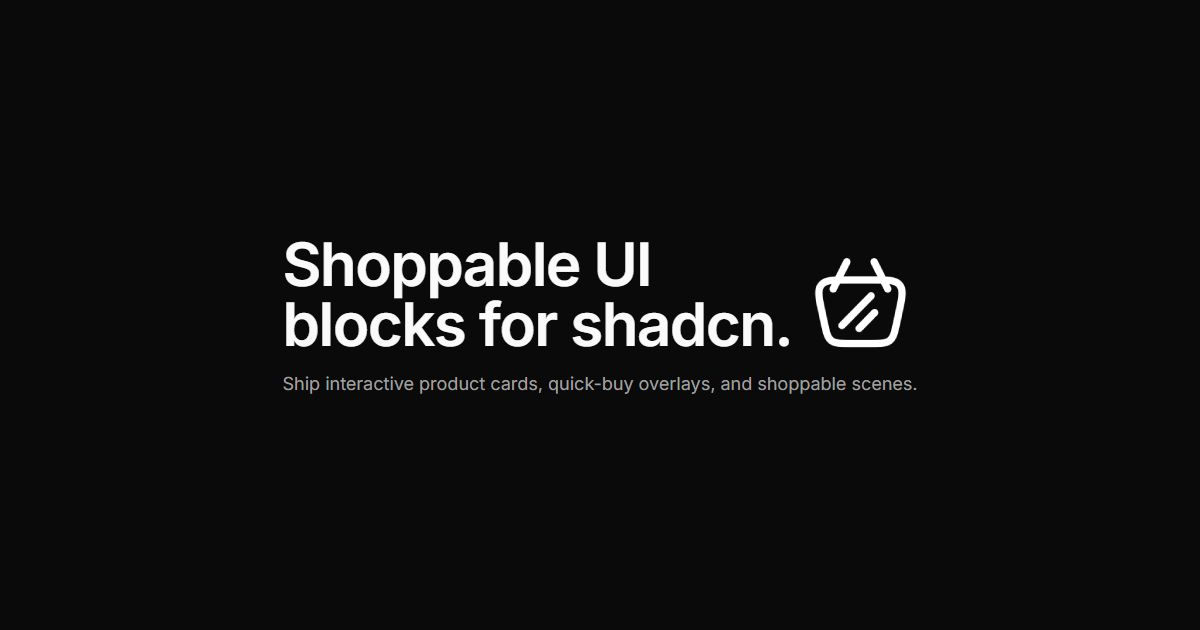
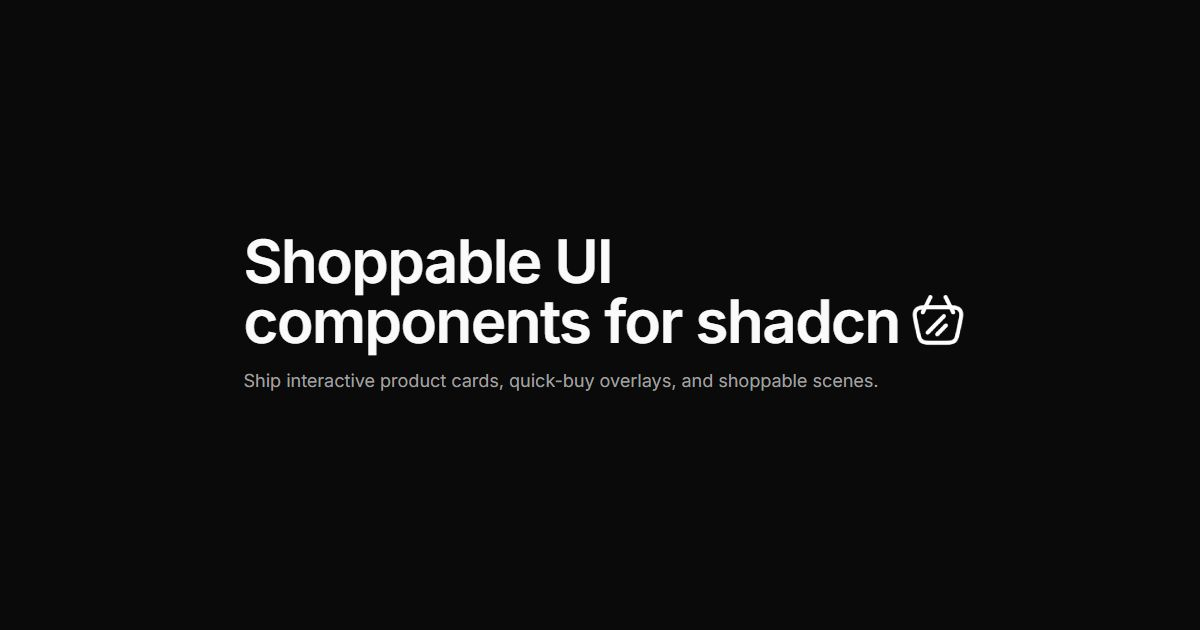
updated og_image and landing page hero text

Changed region(s): [[0.185, 0.3619, 0.8017, 0.6333]]

diff --git a/app/(home)/page.tsx b/app/(home)/page.tsx
@@ -18,6 +18,7 @@ import {
   CardTitle,
 } from "@/components/ui/card"
 import { InstallCommand } from "@/components/install-command"
+import { SiteLogo } from "@/components/site-logo"
 import { cn } from "@/lib/utils"
 
 const libraryRepoUrl = "https://github.com/vasilisgee/shoppablecn"
@@ -32,7 +33,11 @@ export default function HomePage() {
           </div>
           <div className="space-y-4">
             <h1 className="max-w-4xl text-4xl font-semibold tracking-tight text-balance sm:text-5xl md:text-6xl">
-              Shoppable UI components for shadcn.
+              Shoppable UI components for{" "}
+              <span className="inline-flex items-center gap-2 md:gap-3">
+                shadcn
+                <SiteLogo className="size-9 sm:size-11 md:size-13" />
+              </span>
             </h1>
             <p className="max-w-2xl text-base leading-7 text-muted-foreground sm:text-lg">
               Ship interactive product cards, quick-buy overlays, and
